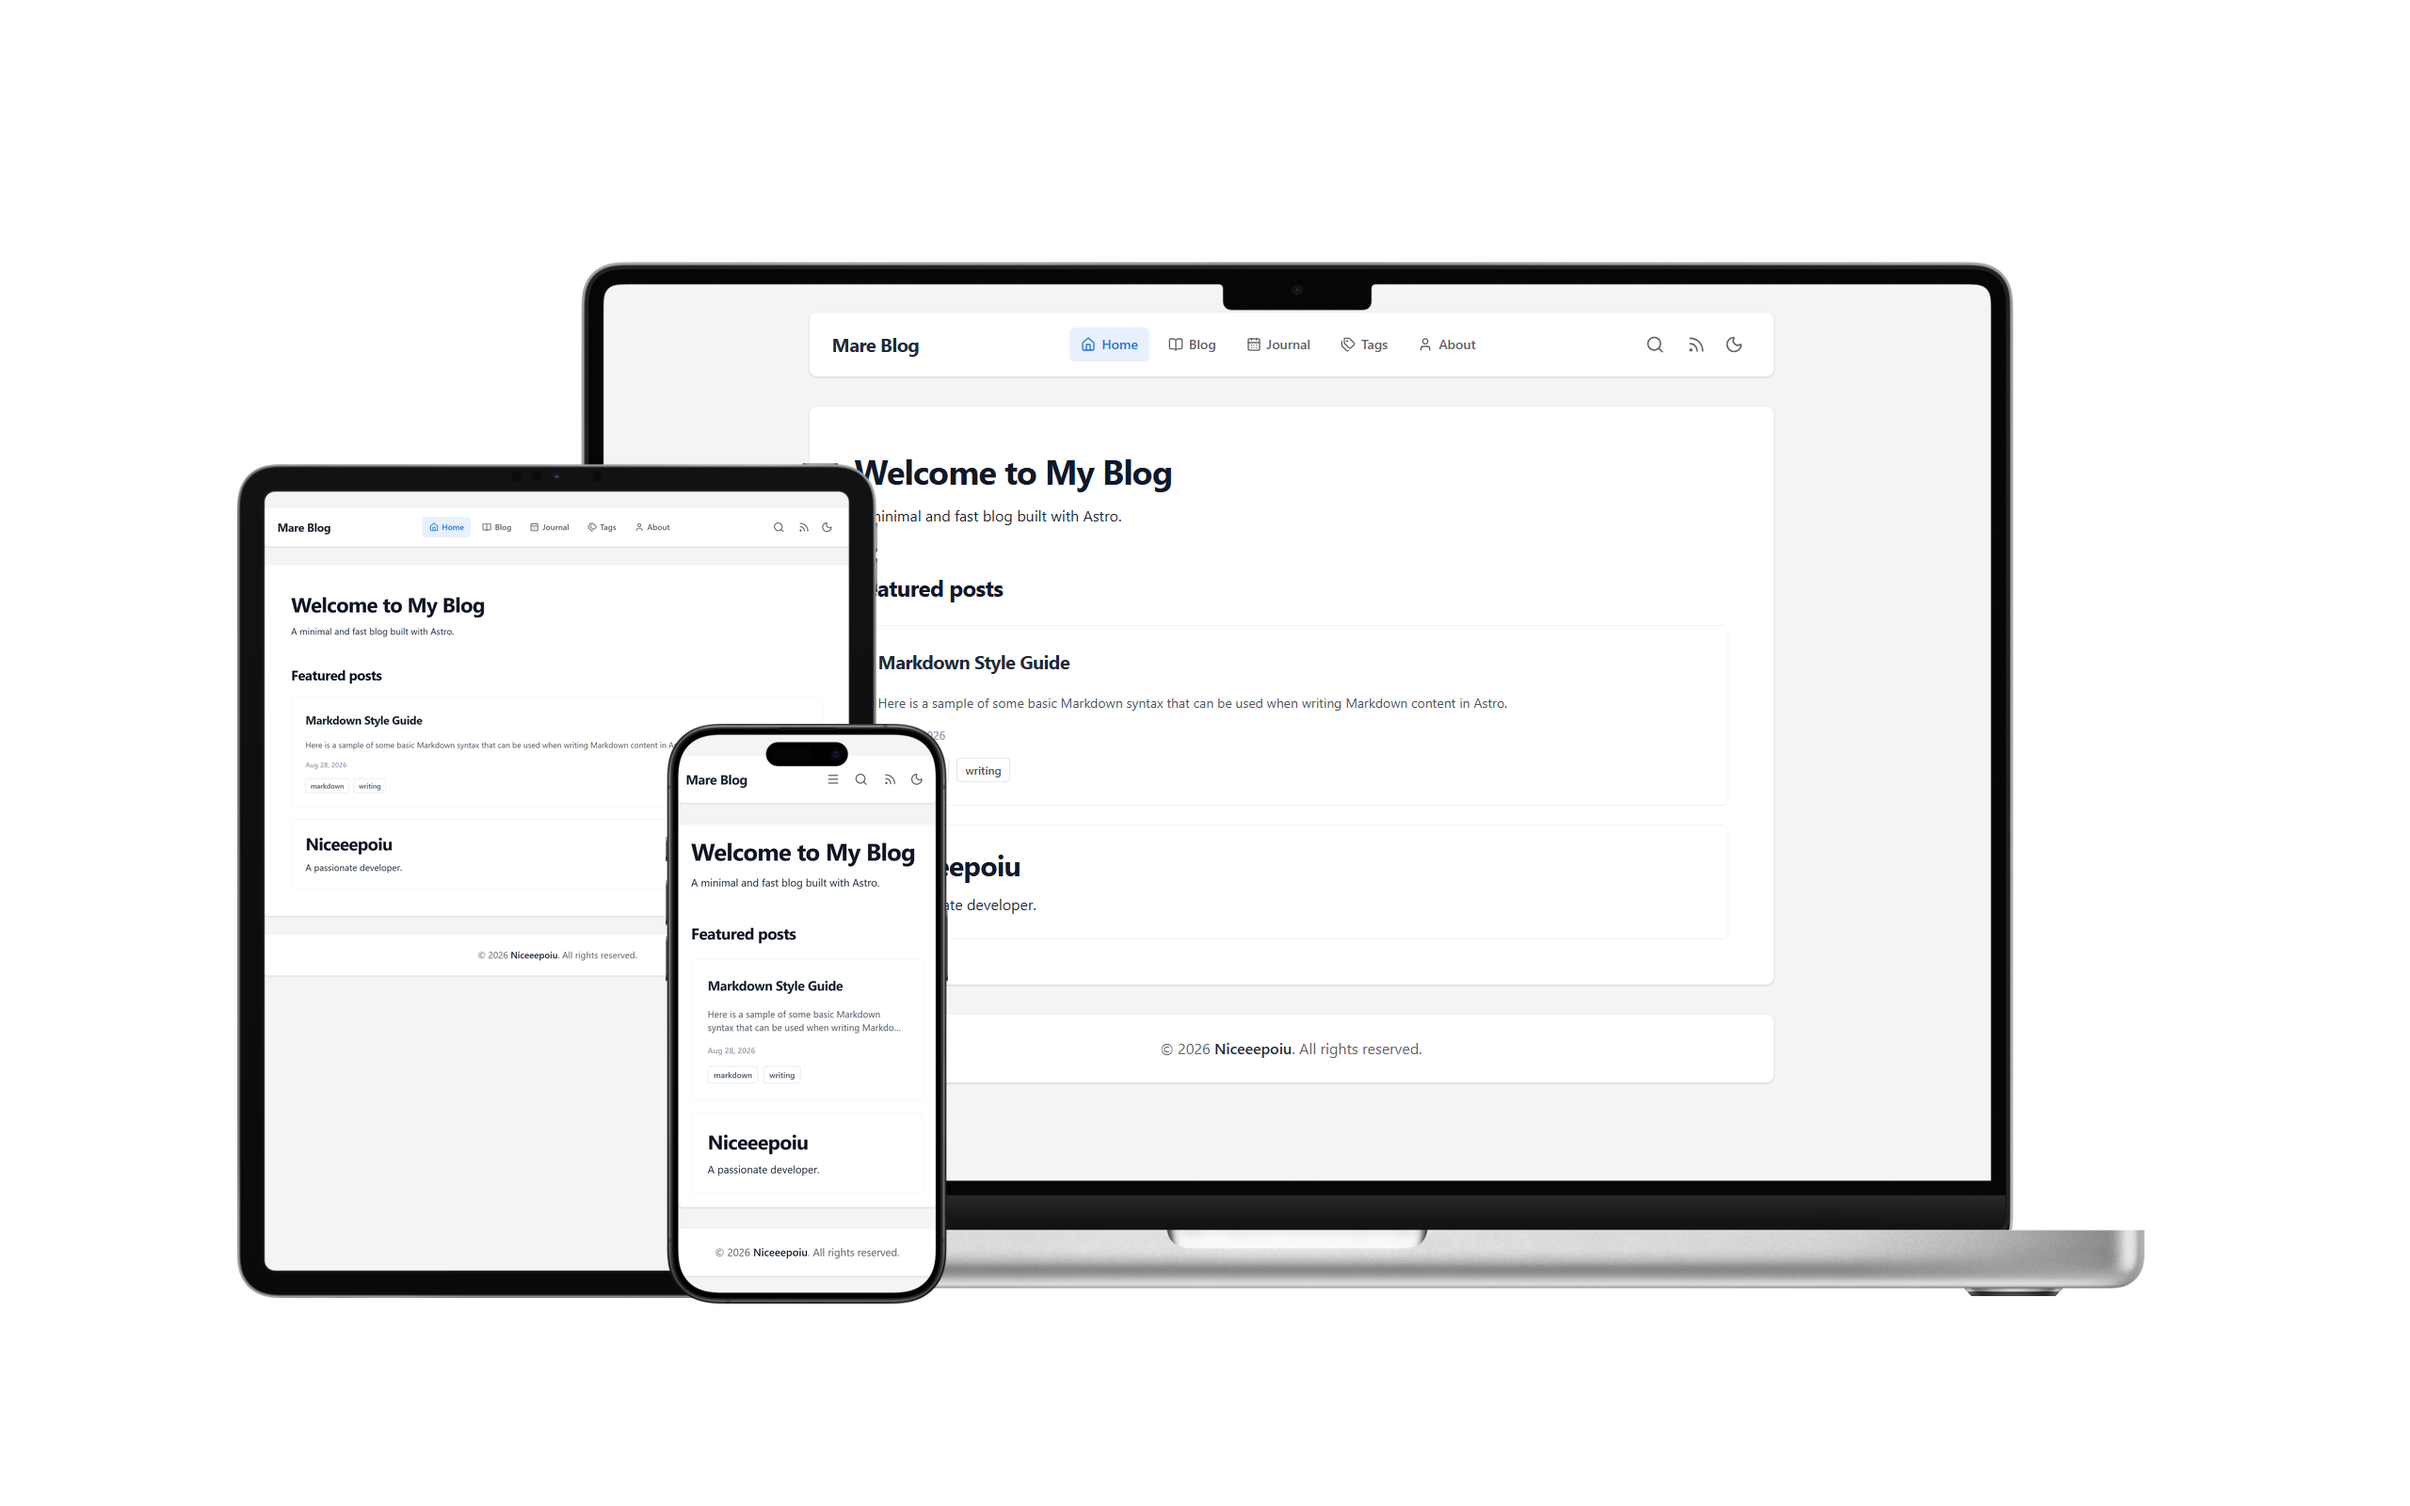
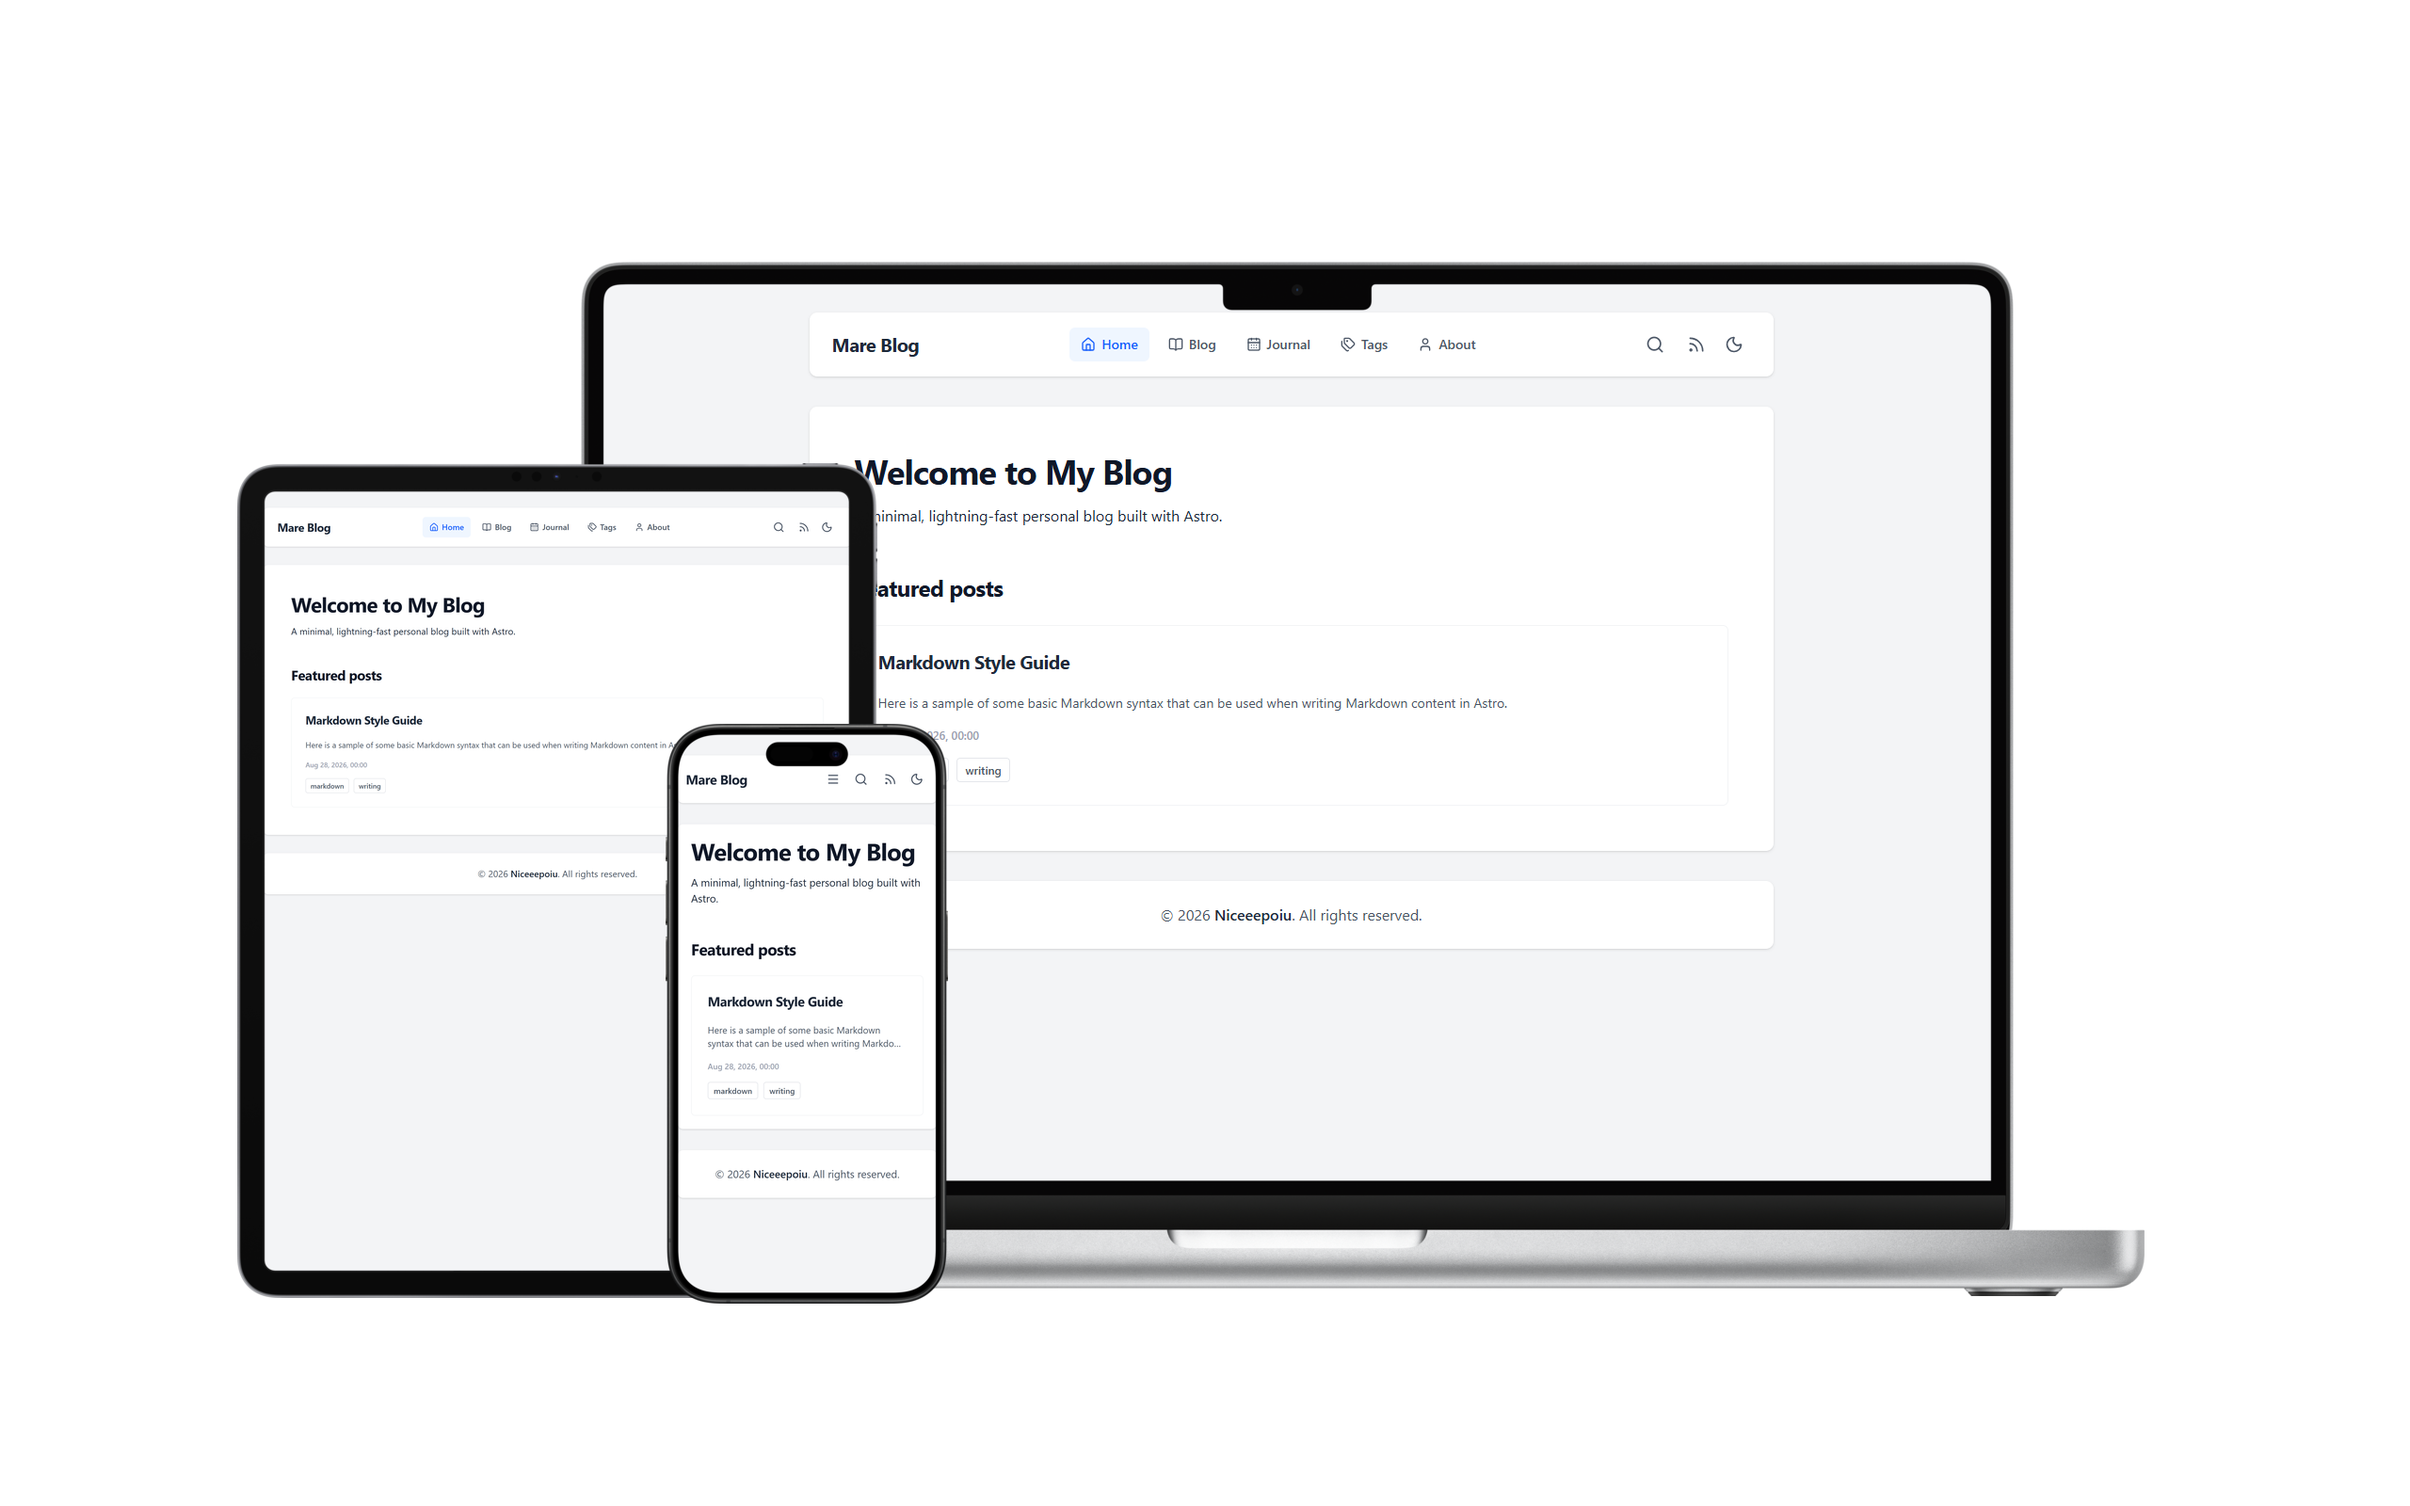
docs: modify parts of the documentation

diff --git a/site.config.ts b/site.config.ts
@@ -17,7 +17,7 @@ export interface AuthorLink {
 }
 
 export interface SiteConfig {
-  /** Site language (e.g. 'en', 'zh-CN') */
+  /** Site language */
   lang: string;
   /** Site title */
   title: string;

diff --git a/src/content/blog/guide.md b/src/content/blog/guide.md
@@ -8,18 +8,29 @@ tags: [astro, blogging]
 
 ## 1. Configuring Your Site
 
-All global site metadata and third-party integrations (such as the Giscus comment system) are managed inside `/site.config.ts`.
+All global site metadata and third-party integrations are managed in `/site.config.ts`.
 
-Open `/site.config.ts` and update the values to match your personal details:
+This project ships with a working default configuration that you can customize to fit your site:
 
 ```typescript
 export default defineConfig({
+  lang: "en",
   title: "Mare Blog",
-  description: "A minimal and fast blog built with Astro.",
+  description: "A minimal, lightning-fast personal blog built with Astro.",
   author: "Niceeepoiu",
-  authorUrl: "https://github.com/Niceeepoiu",
+  authorUrl: "https://www.github.com/Niceeepoiu",
   authorBio: "A passionate developer.",
+  authorLocation: "Zhejiang, China",
+  avatar: "https://www.github.com/Niceeepoiu.png",
+  authorLinks: [
+    {
+      name: "GitHub",
+      href: "https://www.github.com/Niceeepoiu",
+      icon: "lucide:github",
+    },
+  ],
   url: "https://mare-blog.pages.dev",
+  postsPerPage: 6,
   nav: [
     { name: "Home", href: "/", icon: "lucide:home" },
     { name: "Blog", href: "/blog", icon: "lucide:book-open" },
@@ -27,13 +38,12 @@ export default defineConfig({
     { name: "Tags", href: "/blog/tags", icon: "lucide:tags" },
     { name: "About", href: "/about", icon: "lucide:user" },
   ],
-
   giscus: {
     enabled: true,
-    repo: "your-username/your-repo-name",
-    repoId: "YOUR_GISCUS_REPO_ID",
+    repo: "Niceeepoiu/mare-blog",
+    repoId: "R_kgDOUH3Ucg",
     category: "Announcements",
-    categoryId: "YOUR_GISCUS_CATEGORY_ID",
+    categoryId: "DIC_kwDOUH3Ucs4DEfws",
     theme: "light",
     darkTheme: "dark",
     lang: "en",
@@ -41,34 +51,35 @@ export default defineConfig({
 });
 ```
 
-The project defaults to Giscus enabled, but comments only render if the repo, repository ID, category, and category ID are all valid. If any of them are missing or invalid, the site shows a disabled notice instead of crashing during build or navigation.
+The project defaults to Giscus enabled, but comments only render if the repository, repository ID, category, and category ID are all valid. If any of those are missing or invalid, the site shows a disabled notice instead of crashing during build or navigation.
 
 ### Configuration Options Breakdown
 
 #### Main Site Metadata
 
-- `title`: The global title of your blog used in SEO meta tags and header.
-- `description`: Default meta description for social sharing and search engines.
-- `author`: The name displayed in post footers and copyright claims.
-- `authorUrl`: External link to your GitHub, Twitter, or personal portfolio.
-- `authorBio`: Brief introduction featured in author cards.
-- `url`: The public base URL.
-- `nav`: Array of header links. Each item requires `name` (visible label) and
-  `href` (destination path); `icon` is optional and accepts an icon identifier
-  such as `lucide:home`. Add, remove, or reorder items in this array to customize
-  the header navigation. Lucide icons referenced by the site are collected
-  automatically during the build.
+- `lang`: The site's language code.
+- `title`: The global title of your blog used in SEO meta tags and the header.
+- `description`: Default meta description used for social sharing and search engines.
+- `author`: The name displayed in post footers and other author metadata.
+- `authorUrl`: External link to your GitHub, personal website, or portfolio.
+- `authorBio`: Short introduction used in author-related UI blocks.
+- `authorLocation`: Optional location text displayed with the author profile.
+- `avatar`: URL for the author avatar image.
+- `authorLinks`: Optional list of profile links such as GitHub, X, or LinkedIn.
+- `url`: The public base URL of the site.
+- `postsPerPage`: Number of posts displayed on each blog archive page.
+- `nav`: Array of header links. Each item requires `name` and `href`; `icon` is optional and uses identifiers like `lucide:home`.
 
 #### Giscus Comment System Settings
 
-- `enabled`: Toggle `true` or `false` to show or hide comments globally. The default template uses `true`.
-- `repo`: GitHub repository path formatted as `owner/repo`.
-- `repoId`: Unique repository ID generated from giscus.app.
-- `category`: Discussion category dedicated to blog comments.
-- `categoryId`: Unique category ID generated from giscus.app.
-- `theme`: Preset theme name applied in light mode.
-- `darkTheme`: Preset theme name applied in dark mode.
-- `lang`: Two-letter ISO language code for the comment UI.
+- `enabled`: Toggle `true` or `false` to show or hide comments globally.
+- `repo`: GitHub repository in `owner/repo` format.
+- `repoId`: Repository GraphQL node ID generated by giscus.
+- `category`: The discussion category name to use for comments.
+- `categoryId`: Category GraphQL node ID generated by giscus.
+- `theme`: Theme name used in light mode.
+- `darkTheme`: Theme name used in dark mode.
+- `lang`: Language code used by the comment widget UI.
 
 When `enabled` is on but the repo credentials are incomplete, the UI shows a clear disabled state and keeps navigation working smoothly without breaking the page.
 
@@ -77,18 +88,20 @@ When `enabled` is on but the repo credentials are incomplete, the UI shows a cle
 Follow these steps to generate your required `repoId` and `categoryId`:
 
 1. **Prepare Your GitHub Repository**:
-   - Ensure your repository is **Public** (Giscus will not work with private repositories).
-   - Enable the **Discussions** feature: Navigate to your repository **Settings** -> **General** -> check **Discussions**.
+   - Ensure your repository is **public** (Giscus does not work with private repositories).
+   - Enable the **Discussions** feature in the repository settings.
 
 2. **Install the Giscus App**:
    - Grant Giscus permission to access your repository by visiting [github.com/apps/giscus](https://github.com/apps/giscus).
 
-3. **Generate Credentials via Giscus Website**:
-   - Head over to [giscus.app](https://giscus.app).
-   - Scroll down to the **Repository** field and enter your repository path.
-   - Choose a Discussion Category.
-   - Scroll down to the **Enable giscus** section. Giscus will automatically generate a script tag containing your unique `data-repo-id` and `data-category-id`.
-   - Copy these two values into your `/site.config.ts` file and set `enabled: true`.
+3. **Generate Credentials via the Giscus Website**:
+   - Go to [giscus.app](https://giscus.app).
+   - Enter your repository path in the **Repository** field.
+   - Choose a suitable discussion category.
+   - Copy the generated `data-repo-id` and `data-category-id` values.
+   - Paste them into `/site.config.ts` and keep `enabled: true`.
+
+To customize the site, update the fields in `/site.config.ts` and keep the rest of the project unchanged unless you also want to revise the site structure or content.
 
 ## 2. Modifying the About Page
 
